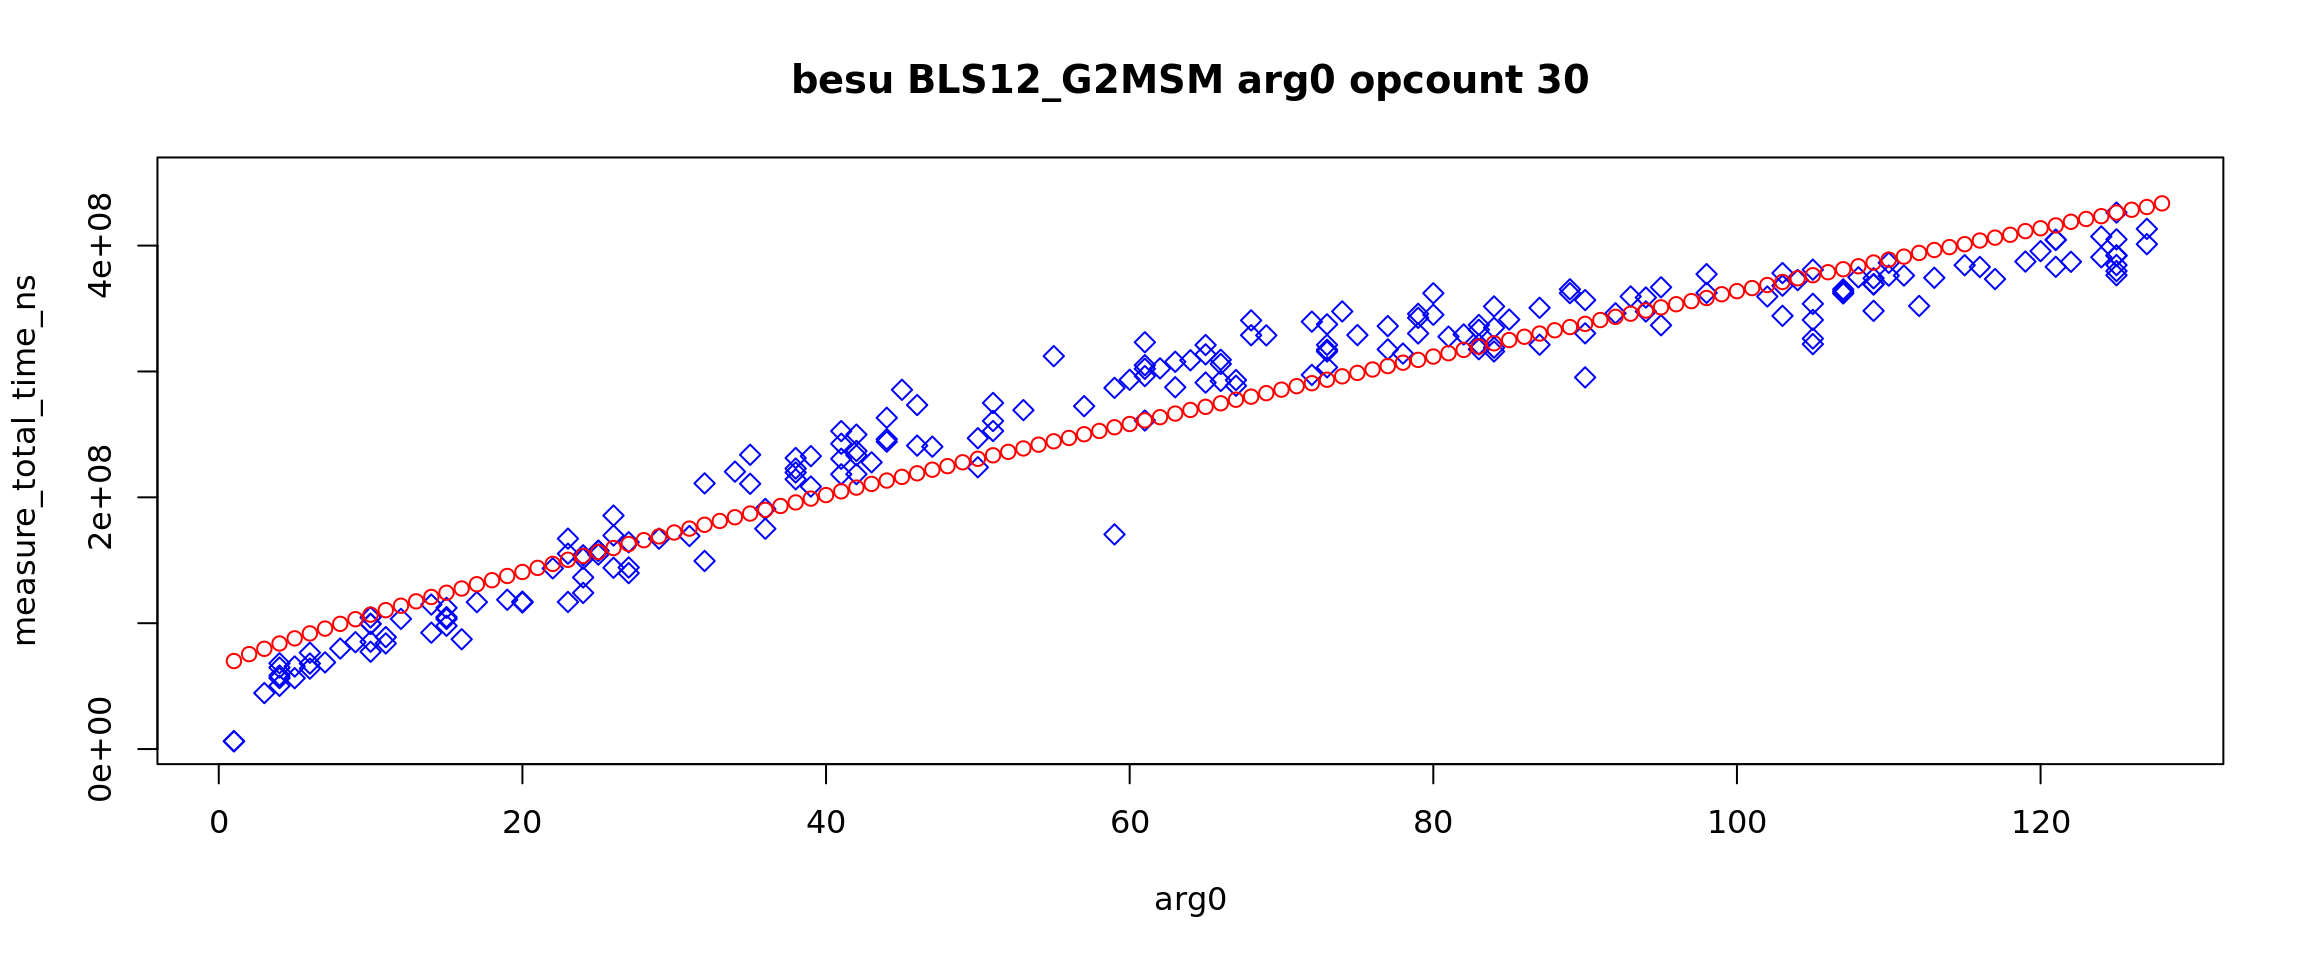
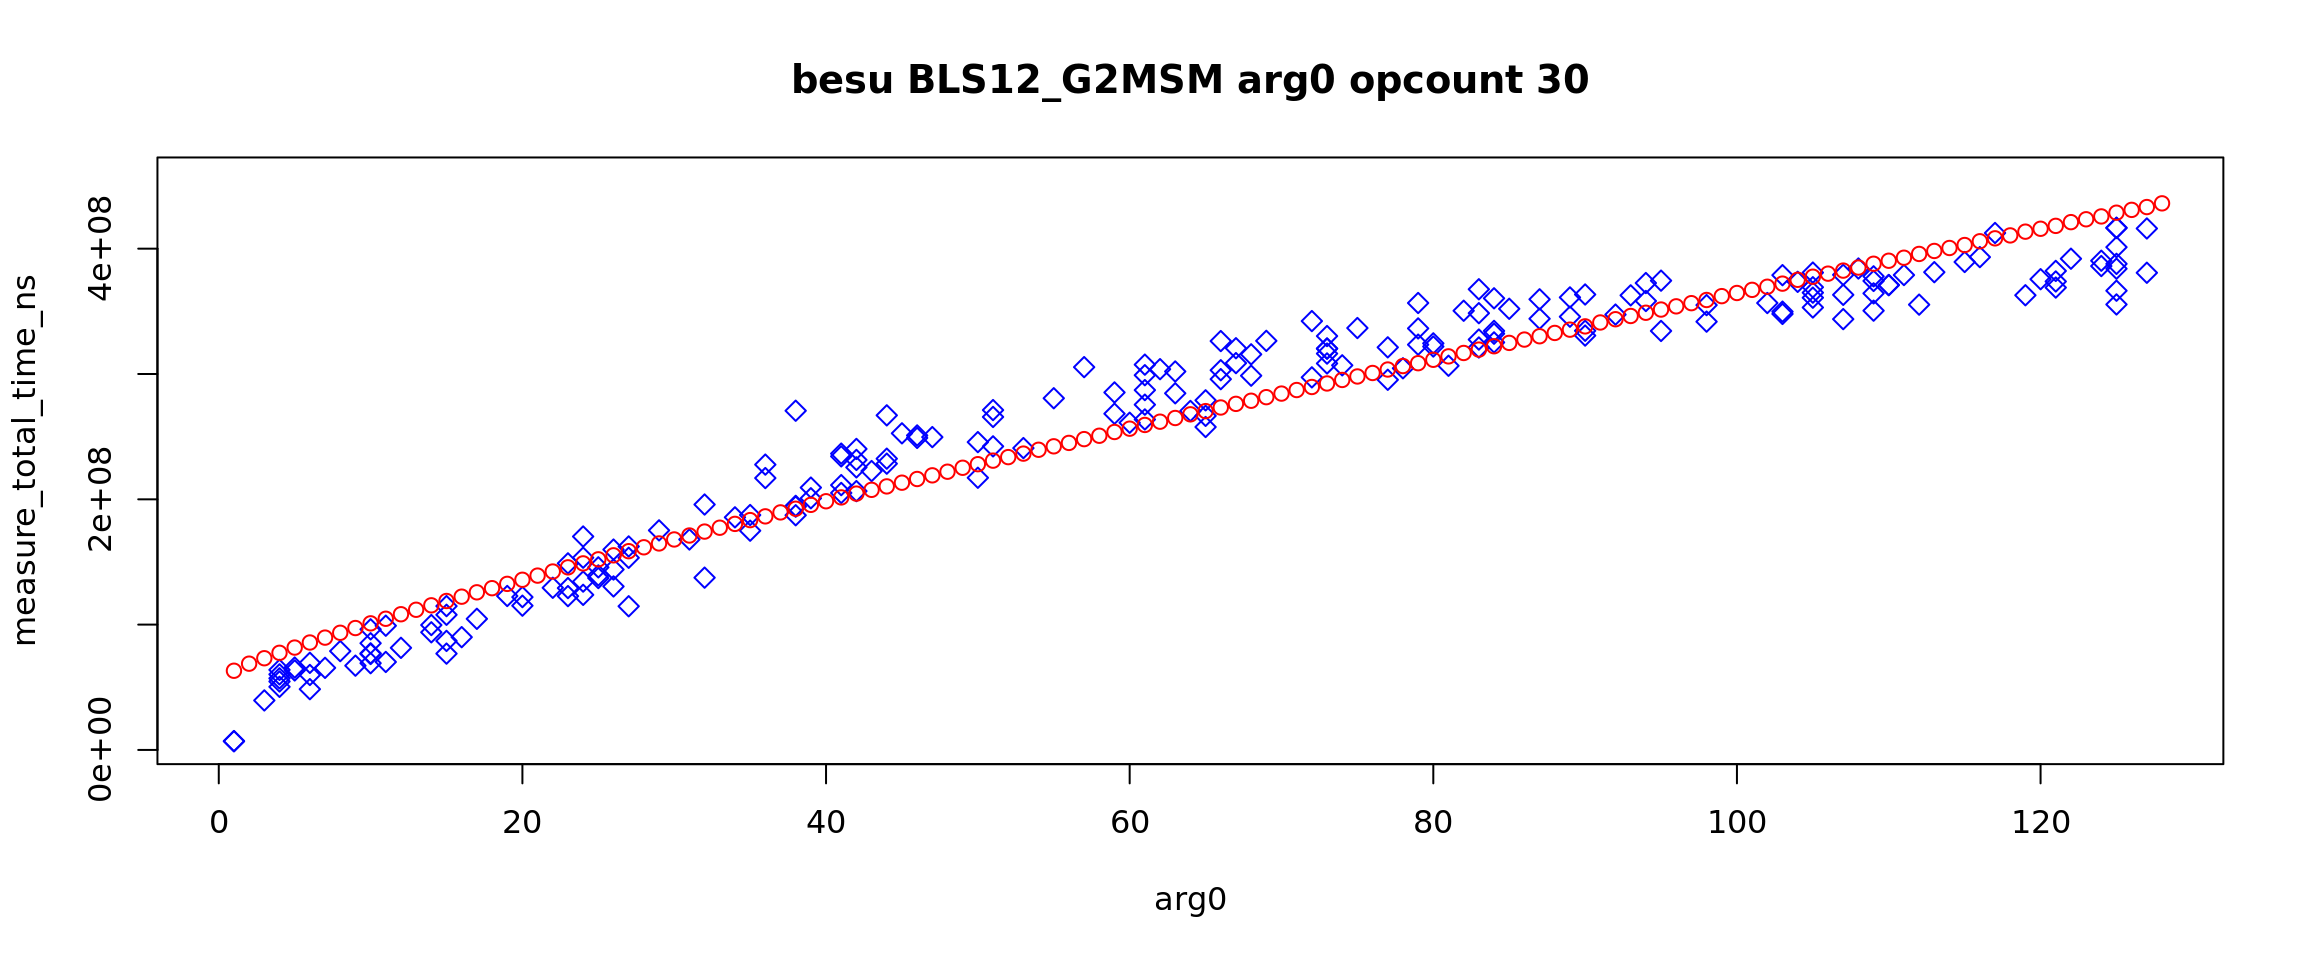
doc: report, msm update

diff --git a/docs/report_stage_v_bls.md b/docs/report_stage_v_bls.md
@@ -90,17 +90,12 @@ The remark worth to be noted are that BLS12_MAP_FP_TO_G2 is slightly overpriced 
 
 Please recall these values are not referred to ECRECOVER, they are self referred. Please note investigation on MSM below also for the full picture.
 
-### Pivot
-
-ECRecover precompile is the pivot operation with 3100 gas cost. ECRecovery and BLS precompiles are executed in the set. The pivot operation measurements are a reference to determine gas cost for BLS precompiles.  
-The choice of the pivot operation is based on its stability.
-
 ### Multi-scalar Multiplication (BLS12\_G1MSM, BLS12\_G2MSM)
 
-Multi-scalar multiplication computes the sum of multiple scalar multiplications of points on the G1 or G2 curves. The EIP-2537 expects the implementation of Pippenger’s algorithm, and prices the operations accordingly.  
+Multi-scalar multiplication computes the sum of multiple scalar multiplications of points on the G1 or G2 curves. The EIP-2537 expects the implementation of Pippenger’s algorithm, and prices the operations accordingly. 
 The general formula is  
 
->`cost = (k * multiplication_cost * discount) / multiplier`
+>`cost = (k * multiplication_cost * discount[k]) / multiplier`
 
 where  
 
@@ -109,11 +104,27 @@ where
 >`discount` is a value from the discount table and depends on k  
 >`multiplier` is always 1000  
 
-Note that this is not a linear formula. Thus a semi-linear regression is employed. That is defined as the problem of finding the best fit of the curve determined by the discount table to measurements.
+Note a sublinear dependency. Thus a semi-linear regression is employed in analysis. That is defined as the problem of finding the best fit of the curve determined by the discount table to measurements.
 
-The measurements significantly depend on the argument k \- the number of multiplications. Thus the arguments course is examined in details. There are two sets, 1-128 multiplications and 1-8 multiplications. The first gives a broad overview, as the discount table defined in EIP-2537 ranges to 128\. The latter is a closer look at a specific area \- the choice is based on experimental data.
+There are two measurements courses: the marginal and the arguments. The marginal course is more accurate, the arguments course investigate the dependency on the argument k - the number of pairs/multiplications. Finally, the results of marginal and arguments courses are compared. 
 
-Below are graphs for 1-128 arguments. The red dotted line is the fitted cost curve.
+The marginal course consists of three cases: k=0, k=1 and k=2. The case k=0 is discussed above, and it is omitted in this section. The main difference between the cases k=1 and k=2 is that the latter requires addition. The reference gas cost of G1 MSM operation is 12000 for k=1 and 22776 for k=2, the reference gas cost of G2 MSM operation is 22500 for k=1 and 45000 for k=2. So the ratio is 1.898 and 2.0 for G1 MSM and G2 MSM operations respectively.
+
+| EVM        | G1 reference ratio | G1 estimated ratio | G2 reference ratio | G2 estimated ratio |
+|------------|--------------------|--------------------|--------------------|--------------------|
+| besu       | 	1.898             | 	1.99              | 	2                 | 	1.97              |
+| erigon     | 	1.898             | 	1.27              | 	2                 | 	1.36              |              
+| evmone     | 	1.898             | 	1.49              | 	2                 | 	1.43              |              
+| geth       | 	1.898             | 	1.31              | 	2                 | 	1.23              |              
+| nethermind | 	1.898             | 	1.32              | 	2                 | 	1.34              |              
+| revm       | 	1.898             | 	8.72              | 	2                 | 	7.43              |              
+
+Note that EVMs are warmed up before measurements so it not the case that some software required initialization.
+
+The measurements significantly depend on the argument k \- the number of multiplications. The gas cost formula includes discount factor which is non-linear and needs examination also.
+There are two sets within the arguments course, 1-128 multiplications and 1-8 multiplications - in short the large and small arguments. Note that the discount table defined in EIP-2537 ranges to 128. The reason to investigate small arguments is the observation that most EVMs have different behaviour than for the large arguments. It may because of optimizations available for small arguments.
+
+Below are graphs for large arguments. The red dotted line is the fitted cost curve according to the discount table - semi-linear regression.
 
 <img src="./report_stage_v_assets/besu_msm_g1.png" width="600" alt="Besu BLS12_G1MSM">
 <img src="./report_stage_v_assets/besu_msm_g2.png" width="600" alt="Besu BLS12_G2MSM">
@@ -123,16 +134,20 @@ Below are graphs for 1-128 arguments. The red dotted line is the fitted cost cur
 <img src="./report_stage_v_assets/erigon_msm_g2.png" width="600" alt="Erigon BLS12_G2MSM">
 <img src="./report_stage_v_assets/geth_msm_g1.png" width="600" alt="Geth BLS12_G1MSM">
 <img src="./report_stage_v_assets/geth_msm_g2.png" width="600" alt="Geth BLS12_G2MSM">
+<img src="./report_stage_v_assets/nethermind_msm_g1.png" width="600" alt="Nethermind BLS12_G1MSM">
+<img src="./report_stage_v_assets/nethermind_msm_g2.png" width="600" alt="Nethermind BLS12_G2MSM">
 <img src="./report_stage_v_assets/revm_msm_g1.png" width="600" alt="Revm BLS12_G1MSM">
 <img src="./report_stage_v_assets/revm_msm_g2.png" width="600" alt="Revm BLS12_G2MSM">
 
-The client EvmOne has almost perfect match.  
-The clients besu, erigon and geth have two modes: for low arguments and large arguments. Note that besu BLS12\_G2MSM has clearly lower measurements for k=1,2. For the low arguments optimizations are possible other than Pippenger’s algorithm and this is a reason for these two modes.  
-The client Revm has unexpected measurements. Further investigation is needed to explain the phenomena.
+The first observation is: revm results look chaotic. But repeated measurements yield similar shapes. So it is specific for the evm. There are three segments: 1-16, 16-32, 32-128. The point is that estimations are not reliable with such data. Although results G1 MSM in the segment 32-128 are in the line of expectation. Further investigation is needed to explain the phenomena.
 
-The dilemma is whether the estimations from the low arguments mode or the estimations from the large arguments mode should be eligible for the gas cost proposal. The answer is not obvious and not final but from the network security perspective the latter is better. Of course operations with low arguments would be overpriced, and that is a drawback.
+The second observation is: besu, erigon and geth results have two modes. For small arguments the results are significantly lower. For erigon and geth it is 1-20 arguments, for besu it is 1-4 arguments. These results are visibly below estimated regression. For the small arguments optimizations are possible other than Pippenger’s algorithm and this is a reason for these two modes. Note that low results for small arguments affects the regression line - it would fit better to large arguments only. And that would confirm the discount table. 
 
-The side note is that the programs in the marginal course uses precompiles invocations with k=2 (BLS12\_G1MSM, BLS12\_G2MSM, BLS12\_PAIRING\_CHECK). It is not an issue for the pairing check, but for MSMs it is. The conclusion is that the argument’s gas cost estimation has greater importance in these cases.
+This raises the dilemma: whether the results for small arguments should be taken into account for the gas cost estimations or not. The results for large arguments cannot be neglected as this could make the gas cost for large arguments underpriced and undermine the network security. Of course operations with low arguments would be overpriced, and that is a drawback. The decision is to use all arguments for the estimation. But it is not obvious and possibly not final.
+
+The third observation is: evmone and nethermind have almost perfect match to the estimated regression. This confirms the discount table. Note that the two evms have higher results for 32-64 arguments. The reason for that is uncertain.
+
+
 
 ### Pairing Check (BLS12\_PAIRING\_CHECK)
 
@@ -144,7 +159,7 @@ where
 
 >`k` is a number of pairs
 
-There are two measurements courses: the marginal and the arguments. The marginal programs assume the argument `k=2` so the reference gas cost is 102300. The arguments course investigates the dependence on `k` only. Note that the gas cost formula consists of the constant cost and the argument cost. Finally, the marginal and arguments results are compared. 
+There are two measurements courses: the marginal and the arguments. The marginal programs assume the argument `k=2` so the reference gas cost is 102300. The arguments course investigates the dependence on `k` only. Note that the gas cost formula consists of the constant cost and the argument cost. Finally, the results of marginal and arguments courses are compared. 
 
 In all cases of the argument course a strong regression is obtained with a low relative standard deviation. That means that the estimated computational times of the constant and argument components are very reliable. Below is an example of analysed results with a strong regression line, see the arguments reports for further details.
 
@@ -166,6 +181,12 @@ The results are scaled relatively to the argument cost in the table below.
 | revm       | 32600                         | 	44145.6                      | -17.1	                     | 99246.3                              |	3.0      |
 
 Assuming the argument cost is the reference value, the calculated constant cost diverges &#177; 20% from the expected value, and the estimated cost of precompile in the marginal course diverges &#177; 6% from the expected value. The latter proves methodology and the great consistency between these two courses. The former indicates quite good balance between the constant cost and the arguments cost.
+
+### Pivot
+
+ECRecover precompile was selected as the pivot operation for this research. The pivot operation is the reference to verify the gas cost for BLS precompiles against to. Literally, 3100 gas is considered as the cost for ECRecovery operation. So, ECRecovery and BLS precompiles are executed in the set.
+
+ECRecovery precompile was analysed in the stage 4 of the Gas Cost Estimator project and is discussed in EIP-7904.
 
 ### Proposal
 
